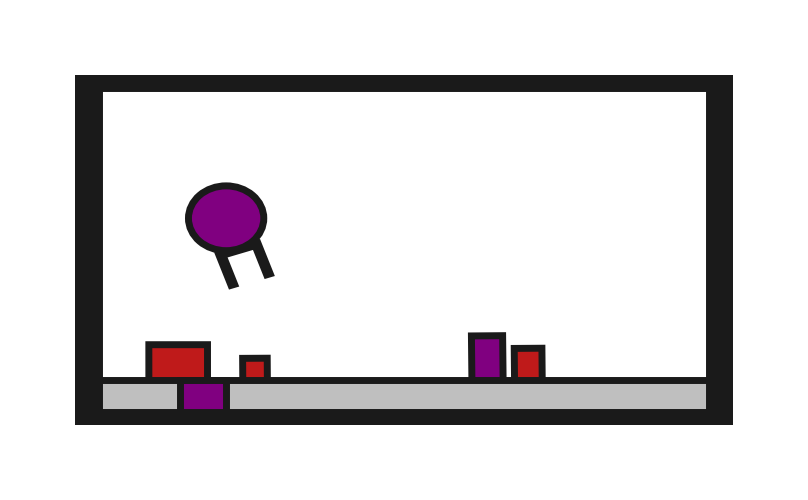
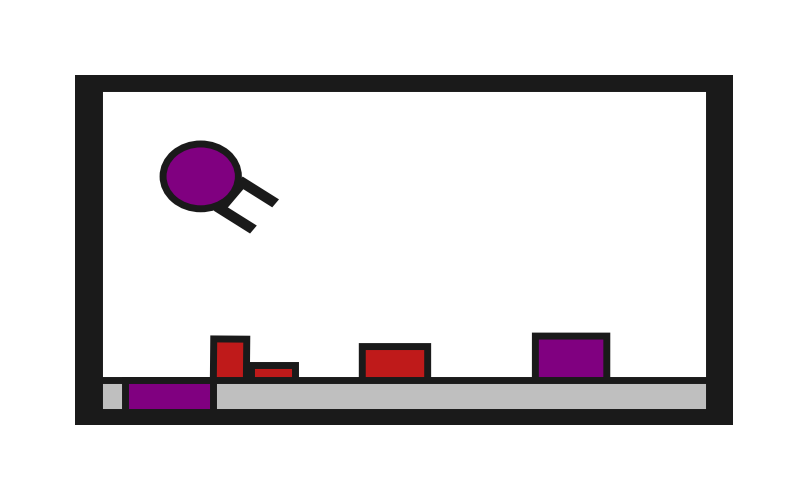
unit test about control precision

Changed region(s): [[0.4332, 0.66, 0.7735, 0.78], [0.1856, 0.27, 0.3403, 0.6], [0.1238, 0.66, 0.3713, 0.84]]

diff --git a/tests/envs/dynamic2d/test_dyn_obstruction2d.py b/tests/envs/dynamic2d/test_dyn_obstruction2d.py
@@ -5,6 +5,7 @@ import numpy as np
 from gymnasium.spaces import Box
 
 import prbench
+from relational_structs import ObjectCentricState
 
 
 def test_dyn_obstruction2d_observation_space():
@@ -21,21 +22,57 @@ def test_dyn_obstruction2d_action_space():
     """Tests that the actions are valid and the step function works."""
     prbench.register_all_environments()
     env = prbench.make("prbench/DynObstruction2D-o3-v0")
-    _obs, _ = env.reset(seed=0)
-    statble_move = np.array([0.05, 0.05, np.pi / 16, 0.05, -0.02], dtype=np.float32)
-    # Check the control precision
-    # zeros = np.zeros_like(obs)
-    # zeros[0] += statble_move[0]
-    # zeros[1] += statble_move[1]
-    # zeros[2] += statble_move[2]
-    # desired_obs_next = obs + statble_move
-    _img = env.render()
-    # iio.imwrite("unit_test_videos/init.png", img)
-    for _ in range(10):
-        _obs, _reward, _terminated, _truncated, _info = env.step(statble_move)
-        # img = env.render()
-        # iio.imwrite(f"unit_test_videos/step_{i}.png", img)
+    obs, _ = env.reset(seed=0)
+    statble_move = np.array([0.05, 0.05, np.pi / 16, 0.0, 0.0], dtype=np.float32)
+    # Check the control precision of base movements
+    for s in range(5):
+        obs, _ = env.reset(seed=s)
+        state: ObjectCentricState = env.observation_space.devectorize(obs)
+        name_to_object = {obj.name: obj for obj in state.data}
+        robot_object = name_to_object["robot"]
+        robot_x = state.get(robot_object, "x")
+        robot_y = state.get(robot_object, "y")
+        robot_theta = state.get(robot_object, "theta")
+        robot_arm_length = state.get(robot_object, "arm_length")
+        robot_finger_gap = state.get(robot_object, "finger_gap")
+        obs_, _, _, _, _ = env.step(statble_move)
+        state_: ObjectCentricState = env.observation_space.devectorize(obs_)
+        robot_x_ = state_.get(robot_object, "x")
+        robot_y_ = state_.get(robot_object, "y")
+        robot_theta_ = state_.get(robot_object, "theta")
+        robot_arm_length_ = state_.get(robot_object, "arm_length")
+        robot_finger_gap_ = state_.get(robot_object, "finger_gap")
+        assert np.isclose(robot_x + statble_move[0], robot_x_, atol=1e-3)
+        assert np.isclose(robot_y + statble_move[1], robot_y_, atol=1e-3)
+        assert np.isclose(robot_theta + statble_move[2], robot_theta_, atol=1e-2) # 0.5 degree
+        assert np.isclose(robot_arm_length + statble_move[3], robot_arm_length_, atol=1e-3)
+        assert np.isclose(robot_finger_gap - statble_move[4], robot_finger_gap_, atol=1e-3)
 
+    obs, _ = env.reset(seed=0)
+    statble_move = np.array([0.0, 0.0, 0.0, 0.05, -0.02], dtype=np.float32)
+    # Check the control precision of base movements
+    for s in [1, 2]:
+        obs, _ = env.reset(seed=s)
+        state: ObjectCentricState = env.observation_space.devectorize(obs)
+        name_to_object = {obj.name: obj for obj in state.data}
+        robot_object = name_to_object["robot"]
+        robot_x = state.get(robot_object, "x")
+        robot_y = state.get(robot_object, "y")
+        robot_theta = state.get(robot_object, "theta")
+        robot_arm_length = state.get(robot_object, "arm_joint")
+        robot_finger_gap = state.get(robot_object, "finger_gap")
+        obs_, _, _, _, _ = env.step(statble_move)
+        state_: ObjectCentricState = env.observation_space.devectorize(obs_)
+        robot_x_ = state_.get(robot_object, "x")
+        robot_y_ = state_.get(robot_object, "y")
+        robot_theta_ = state_.get(robot_object, "theta")
+        robot_arm_length_ = state_.get(robot_object, "arm_joint")
+        robot_finger_gap_ = state_.get(robot_object, "finger_gap")
+        assert np.isclose(robot_x + statble_move[0], robot_x_, atol=1e-3)
+        assert np.isclose(robot_y + statble_move[1], robot_y_, atol=1e-3)
+        assert np.isclose(robot_theta + statble_move[2], robot_theta_, atol=1e-2) # 0.5 degree
+        assert np.isclose(robot_arm_length + statble_move[3], robot_arm_length_, atol=1e-3)
+        assert np.isclose(robot_finger_gap + statble_move[4], robot_finger_gap_, atol=1e-3)
 
 def test_dyn_obstruction2d_different_obstruction_counts():
     """Tests that different numbers of obstructions work."""

diff --git a/src/prbench/envs/dynamic2d/base_env.py b/src/prbench/envs/dynamic2d/base_env.py
@@ -77,7 +77,7 @@ class Dynamic2DRobotEnvSpec:
 
     # Physics parameters
     gravity_y: float = -9.8
-    control_freq: int = 20  # Control frequency (actions per second)
+    control_freq: int = 10  # Control frequency (actions per second)
     sim_freq: int = 120  # Simulation frequency (physics steps per second)
 
     # For rendering.
@@ -310,7 +310,7 @@ class Dynamic2DRobotEnv(gymnasium.Env):
         )
 
         # Multi-step simulation like basic_pymunk.py
-        s = time.time()
+        # s = time.time()
         for _ in range(n_steps):
             # Use PD control to compute base and gripper velocities
             base_vel, base_ang_vel, gripper_base_vel, finger_vel = (
@@ -322,8 +322,8 @@ class Dynamic2DRobotEnv(gymnasium.Env):
             self.robot.update(base_vel, base_ang_vel, gripper_base_vel, finger_vel)
             # Step physics simulation
             self.space.step(dt)
-        e = time.time()
-        print(f"Stepped {n_steps} physics steps in {e - s:.4f} seconds")
+        # e = time.time()
+        # print(f"Stepped {n_steps} physics steps in {e - s:.4f} seconds")
         # Drop objects after internal steps (like basic_pymunk.py)
         self.robot.drop_held_objects(self.space)
 
